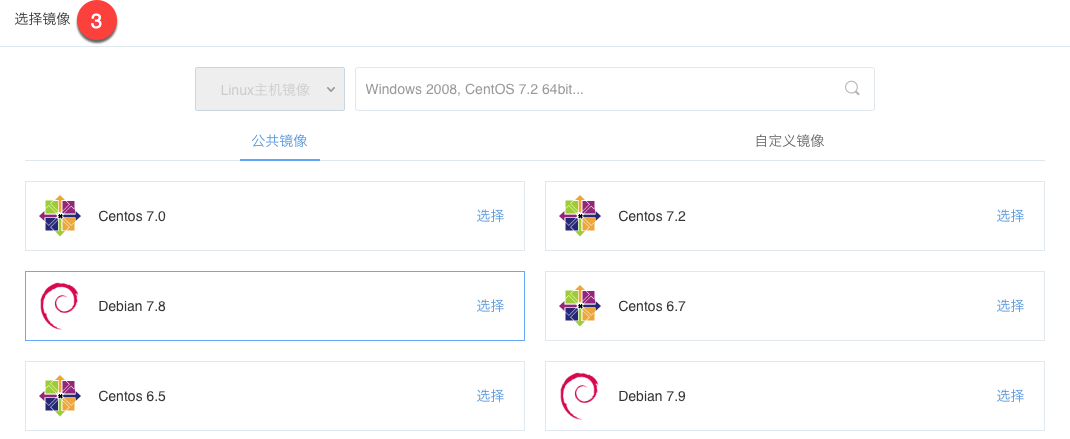
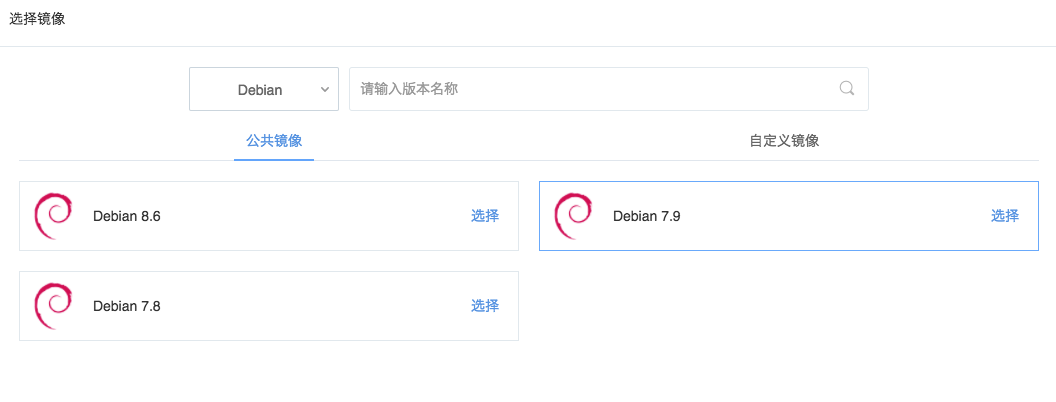
Enhancement:云主机恢复镜像逻辑调整

diff --git a/计算服务/云主机/使用指南/实例/云主机更换操作系统.md b/计算服务/云主机/使用指南/实例/云主机更换操作系统.md
@@ -3,7 +3,7 @@
 <span>Attention:</span><div class="alertContent">该操作会将云主机原系统盘数据清空，请谨慎操作，如有必要建议先将系统盘 [保存为镜像](../md.html#!计算服务/云主机/使用指南/镜像/云主机-保存为镜像.md)。</div>
 
 <span>Note:</span>
-暂不支持 Linux 和 Windows 系统的互换；
+不支持不同系统之间切换；
 挂载的云硬盘不受影响，但恢复后需要重新 mount 或联机；
 使用蜂巢提供的镜像恢复的云主机，系统密码将会初始化，需要重新设置；
 使用用户自定义镜像恢复的云主机，系统密码与自定义镜像保持一致；
@@ -14,7 +14,8 @@
 1. 登录 [控制台](https://c.163.com/dashboard#/m/win/)，定位到目标实例；
 2. 点击实例名称，进入「**云主机详情页**」；
 3. 在「**配置信息**」下，点击「**从镜像恢复**」按钮；
-4. 确认清除数据并恢复：
 ![](../../image/使用指南-镜像-从镜像恢复.png)
-5. 选择镜像： 
+4. 选择镜像： 
 ![](../../image/使用指南-镜像-从镜像恢复-选择.png)
+5. 点击「**确定**」按钮：确认清除数据并开始恢复：   &nbsp;&nbsp;&nbsp;&nbsp;&nbsp;&nbsp;&nbsp;&nbsp;&nbsp;&nbsp;&nbsp;&nbsp;&nbsp;&nbsp;&nbsp;&nbsp;&nbsp;&nbsp;&nbsp;&nbsp;&nbsp;&nbsp;&nbsp;&nbsp;&nbsp;&nbsp;&nbsp;&nbsp;&nbsp;&nbsp;&nbsp;&nbsp;&nbsp;&nbsp;&nbsp;&nbsp;&nbsp;&nbsp;&nbsp;&nbsp;&nbsp;&nbsp;&nbsp;&nbsp;&nbsp;&nbsp;&nbsp;&nbsp;&nbsp;&nbsp;&nbsp;&nbsp;
+![](../../image/使用指南-镜像-从镜像恢复-确认.png)
